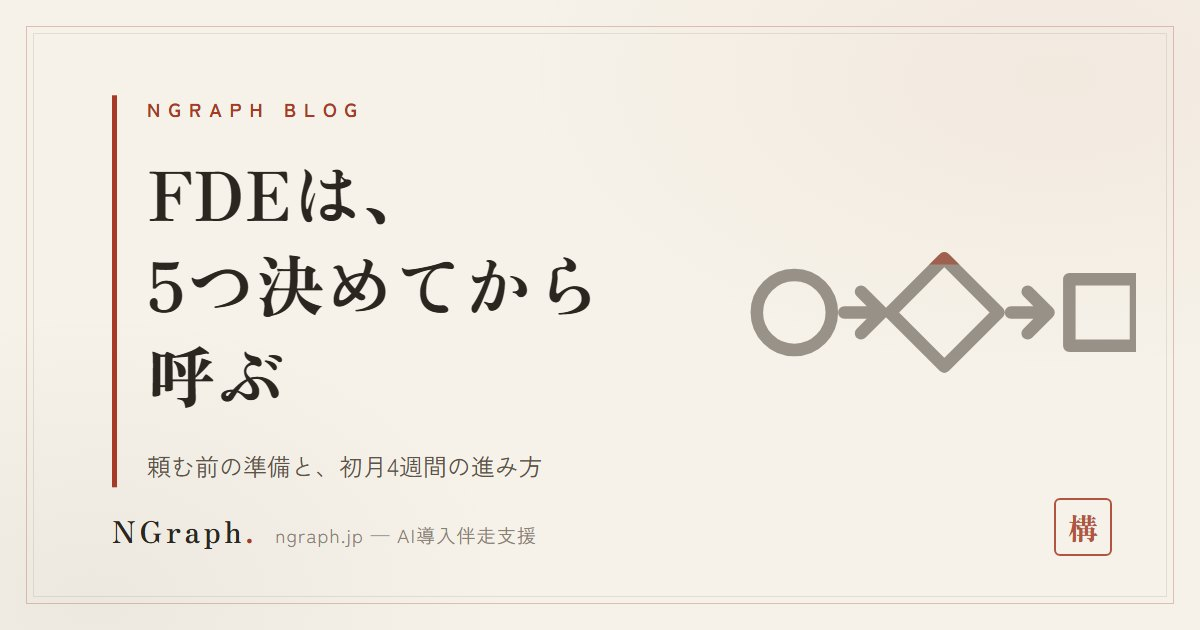
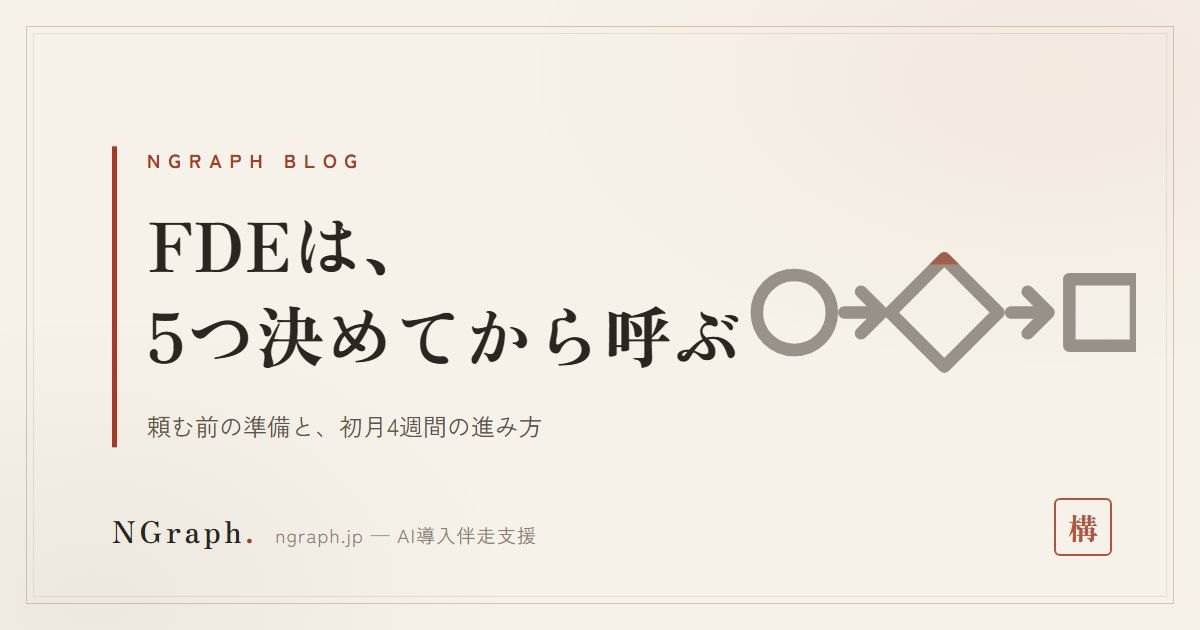
blog: 朝A型の本文を推敲＋8/22ガイドの表紙を作り直し
- 20260826-ai-nine-rules: リードを日付起点からAIの癖の提示に変更／
  BigQuery・MCPの定義文の連打を地の文に開く／「ました」率を下げ語尾を分散／
  一次情報にあって落ちていた事実を追加（列が6週間で3回並べ替え・登録2倍・
  BDR版が2日）／「この記事でいちばん持ち帰ってほしい」など書き手の言葉を削除／
  短信の見出しと1文目の重複を解消
- ja-article-craft / natural-japanese で推敲。antithesis反復3→1、
  ました率 16/68→17/71（23%・閾値30%内）、style_lint・ai_tell・paren・readability 全通過
- 20260822-fde-irai-mae-ni-kimeru.jpg: 表紙が3行に割れていたので {nb} で
  2行に修正（重なり検査通過）。文言の記録は前commitで入っていた分の画像側

Changed region(s): [[0.1233, 0.2413, 0.6167, 0.6937], [0.0925, 0.7238, 0.4625, 0.754], [0.0925, 0.1508, 0.3083, 0.2413]]

diff --git a/blog/k-multilingual-density.html b/blog/k-multilingual-density.html
@@ -1,0 +1,197 @@
+<!DOCTYPE html>
+<html lang="ja">
+<head>
+<meta charset="UTF-8">
+<meta name="viewport" content="width=device-width,initial-scale=1.0">
+<script async src="https://www.googletagmanager.com/gtag/js?id=G-L96HMXRK1D"></script>
+<script>
+  window.dataLayer = window.dataLayer || [];
+  function gtag(){dataLayer.push(arguments);}
+  gtag('js', new Date());
+  gtag('config', 'G-L96HMXRK1D');
+</script>
+<title>飲食店の英語ページは、日本語の5倍書く——多言語サイトを「情報密度」から設計する | NGraphブログ</title>
+<meta name="description" content="飲食店の多言語サイトを自社実測したところ、英語ページは日本語ページの約5倍の分量でした。訳語辞書・書いていない情報の洗い出し・書けない情報の線引き・更新の配線という、情報密度から設計する4つの手順を公開します。">
+<meta property="og:title" content="飲食店の英語ページは、日本語の5倍書く——多言語サイトを「情報密度」から設計する | NGraphブログ">
+<meta property="og:description" content="飲食店の多言語サイトを自社実測したところ、英語ページは日本語ページの約5倍の分量でした。訳語辞書・書いていない情報の洗い出し・書けない情報の線引き・更新の配線という、情報密度から設計する4つの手順を公開します。">
+<meta property="og:type" content="article">
+<meta property="og:url" content="https://ngraph.jp/blog/k-multilingual-density">
+<meta property="og:site_name" content="株式会社NGraph">
+<meta property="og:locale" content="ja_JP">
+<meta property="og:image" content="https://ngraph.jp/assets/blog/k-multilingual-density.jpg">
+<meta property="og:image:width" content="1200">
+<meta property="og:image:height" content="630">
+<meta name="twitter:card" content="summary_large_image">
+<link rel="canonical" href="https://ngraph.jp/blog/k-multilingual-density">
+<link rel="icon" href="/assets/favicon.svg" type="image/svg+xml">
+<link rel="preconnect" href="https://fonts.googleapis.com">
+<link rel="preconnect" href="https://fonts.gstatic.com" crossorigin>
+<link href="https://fonts.googleapis.com/css2?family=Zen+Old+Mincho:wght@400;600;700;900&family=Zen+Kaku+Gothic+New:wght@400;500;700&family=Noto+Sans+JP:wght@400;500;700&display=swap" rel="stylesheet">
+<link rel="stylesheet" href="/css/ngraph-zen.css?v=9">
+<style>.a-faq details{border:1px solid var(--border);border-radius:3px;background:var(--bg-card);margin-bottom:10px;padding:0 18px}.a-faq summary{font-family:var(--serif);font-size:.92rem;font-weight:700;line-height:1.7;padding:14px 0;cursor:pointer;list-style:none;position:relative;padding-right:26px}.a-faq summary::after{content:"＋";position:absolute;right:2px;top:50%;transform:translateY(-50%);color:var(--accent)}.a-faq details[open] summary::after{content:"−"}.a-faq details p{font-size:.86rem;color:var(--text-2);line-height:2;padding:0 0 16px}.a-note{background:rgba(166,58,36,.05);border-left:2.5px solid var(--accent);padding:16px 20px;border-radius:0 3px 3px 0;font-size:.88rem;color:var(--text-2);line-height:2.1;margin:26px 0}.a-note strong{color:var(--text)}.a-table-wrap{overflow-x:auto;margin:18px 0}.a-table{width:100%;border-collapse:collapse;font-size:.84rem}.a-table th,.a-table td{border:1px solid var(--border);padding:9px 12px;text-align:left;line-height:1.8;color:var(--text-2)}.a-table th{background:rgba(166,58,36,.05);color:var(--text);font-weight:700;white-space:nowrap}.a-eyecatch{width:100%;height:auto;display:block;border:1px solid var(--border);border-radius:4px;margin:24px 0 8px}.a-fig-wrap{background:var(--bg-card);border:1px solid var(--border);border-radius:4px;padding:22px 18px 14px;margin:26px 0;overflow-x:auto}.a-fig-title{font-family:var(--serif);font-size:.95rem;font-weight:700;text-align:center;margin-bottom:10px;color:var(--text)}.a-fig-cap{font-size:.8rem;color:var(--text-3);line-height:1.95;margin-top:10px}.a-src{border-top:1px solid var(--border);margin-top:34px;padding-top:16px;font-size:.78rem;color:var(--text-3);line-height:2}.a-src a{color:var(--text-3);text-decoration:underline}.a-toc{background:var(--bg-card);border:1px solid var(--border);border-radius:3px;padding:16px 20px;margin:20px 0;font-size:.86rem;color:var(--text-2);line-height:2}.a-toc strong{color:var(--text)}</style>
+<script type="application/ld+json">
+{
+  "@context": "https://schema.org",
+  "@type": "Article",
+  "headline": "飲食店の英語ページは、日本語の5倍書く——多言語サイトを「情報密度」から設計する",
+  "image": "https://ngraph.jp/assets/blog/k-multilingual-density.jpg",
+  "description": "飲食店の多言語サイトを自社実測したところ、英語ページは日本語ページの約5倍の分量でした。訳語辞書・書いていない情報の洗い出し・書けない情報の線引き・更新の配線という、情報密度から設計する4つの手順を公開します。",
+  "datePublished": "2026-08-26",
+  "dateModified": "2026-08-26",
+  "inLanguage": "ja",
+  "mainEntityOfPage": "https://ngraph.jp/blog/k-multilingual-density",
+  "author": { "@type": "Person", "name": "髙橋 真吾", "jobTitle": "代表取締役", "url": "https://ngraph.jp/company#team", "worksFor": { "@type": "Organization", "name": "株式会社NGraph", "url": "https://ngraph.jp/" } },
+  "publisher": { "@type": "Organization", "name": "株式会社NGraph", "logo": { "@type": "ImageObject", "url": "https://ngraph.jp/assets/ngraph-logo-circle.png" } }
+}
+</script>
+</head>
+<body>
+
+<div class="bg-fx" aria-hidden="true"></div>
+
+<header class="header scrolled">
+  <div class="header-inner">
+    <a href="/" class="brand"><img src="/assets/ngraph-logo-circle.png" alt=""><span>NGraph</span></a>
+    <div style="display:flex;align-items:center;gap:18px">
+      <a href="/blog/" style="font-size:.82rem;color:var(--text-2)">ブログ一覧</a>
+      <a href="/entry" class="nav-cta" style="padding:9px 20px;border-radius:3px;background:var(--accent);color:#fdfaf4;font-weight:700;font-size:.8rem">無料相談</a>
+    </div>
+  </div>
+</header>
+
+<article class="article-wrap">
+  <div class="a-label">N-KNOWLEDGE</div>
+  <h1>飲食店の英語ページは、日本語の5倍書く——多言語サイトを「情報密度」から設計する</h1>
+  <span class="a-date">2026.08.26 ナレッジ ｜ 株式会社NGraph</span>
+  <img class="a-eyecatch" src="/assets/blog/k-multilingual-density.jpg" alt="飲食店の英語ページは、日本語の5倍書く——多言語サイトを「情報密度」から設計する">
+<p>飲食店の英語ページを作るとき、多くの担当者は日本語ページをそのまま訳せば足りると考えます。ところが公開したあとも、外国人客からの質問はほとんど減りません。原因は訳の質ではなく、書いてある情報の量にあります。当社が実際に制作した飲食店サイトで日本語ページと英語ページの本文文字数を測ったところ、英語ページは日本語ページのおよそ5倍の分量になっていました。この記事で持ち帰ってほしいのは5倍という数字そのものではなく、なぜそれだけの分量を書く必要があるのかという設計の考え方です。</p>
+<div class="a-toc"><strong>この記事でわかること</strong><br>
+・訳しただけの英語ページが、なぜ質問を減らさないのか<br>
+・自社実測でわかった「英語ページは日本語の約5倍」の中身と、その数字の限界<br>
+・訳語を店ごとに決め直さないための、辞書の持ち方<br>
+・多言語ページに書き足すべき情報の洗い出し方と、書いてはいけない情報の線引き<br>
+・今日から始められる4段階の実践パス</div>
+
+<h2>訳しただけの英語ページは、なぜ質問を減らさないのか</h2>
+<p>日本語のメニューページは、日本人の読者がすでに持っている前提知識に支えられて成立しています。「甘鯛の一夜干し」と書けば、読者は甘鯛がどんな魚かを知っていて、一夜干しという調理法もおおよそ想像できます。「お通し」と書いても、注文していない小皿が席料に近い形で出てくることは、店側があらためて説明するまでもない共通認識です。「二階席」と書けば、それが座敷なのか個室なのか、読者は自分の経験から補って読みます。</p>
+<p>英語ページをこの日本語ページから1対1で訳すと、文章として正しい英訳ができあがります。しかし、日本語ページがそもそも書いていなかった前提知識まで、そのまま欠落したページになります。甘鯛が何の魚かも、一夜干しがどんな調理かも、お通しが何かも、二階席が何かも、英語ページには何も書かれていません。読み手はその言語の実力がどれだけ高くても、書かれていない情報を推測で埋めることはできません。</p>
+<p>生ものかどうか、辛さの度合い、加熱しているかどうかも同じ構造を持っています。「刺身の盛り合わせ」という日本語だけで、日本人読者は生の魚介であることも、醤油とわさびで食べることも承知済みです。英語ページにこの一文が無いまま「Assorted sashimi」とだけ書くと、生ものだと知らずに注文する読者が出てきます。</p>
+<p>「訳文は正しいのに伝わらない」という現象の正体は、訳の質ではなく情報の量です。多言語ページの担当者がまず疑うべき対象は、翻訳の精度ではありません。日本語ページには最初から書いていなかった情報が、どれだけあるかという点です。</p>
+
+<h2>実測——同じ店の英語ページは、日本語の約5倍長い</h2>
+<p>当社が実際に制作した飲食店サイト2店舗で、日本語ページと英語ページの本文文字数を数えました。数えたのはスクリプトやスタイル、コメントを除いた本文のテキストだけで、公開中のページを取得して2026年8月26日に測った実測値です。</p>
+<p>1店舗目は、トップページとメニューページを合わせた日本語の本文が7,591字だったのに対し、同じ構成の英語ページは38,510字で、日本語の約5.1倍でした。もう1店舗も、日本語7,024字に対して英語34,170字で、約4.9倍という近い比率になっています。2店舗とも、英語ページはおよそ日本語ページの約5倍の分量でした。</p>
+<div class="a-fig-wrap">
+<p class="a-fig-title">同じ店の英語ページは、日本語の約5倍の分量になる</p>
+<svg viewBox="0 0 1200 460" width="100%" style="min-width:640px" role="img" aria-label="同じ店の英語ページは、日本語の約5倍の分量になる"><rect x="220" y="268" width="220" height="41" rx="3" fill="#a63a24"/><text x="330" y="250" font-family="'Zen Kaku Gothic New',sans-serif" font-size="46" fill="#a63a24" font-weight="900" text-anchor="middle">7591字</text><text x="330" y="343" font-family="'Zen Kaku Gothic New',sans-serif" font-size="21" fill="#2b2620" font-weight="700" text-anchor="middle">日本語ページ</text><rect x="700" y="99" width="220" height="210" rx="3" fill="#cfc5b4"/><text x="810" y="81" font-family="'Zen Kaku Gothic New',sans-serif" font-size="46" fill="#5c544a" font-weight="900" text-anchor="middle">38510字</text><text x="810" y="343" font-family="'Zen Kaku Gothic New',sans-serif" font-size="21" fill="#2b2620" font-weight="700" text-anchor="middle">英語ページ</text><line x1="570" y1="50" x2="570" y2="358" stroke="#8a8172" stroke-width="1" stroke-dasharray="4 4"/><text x="600.0" y="402.0" font-family="'Zen Old Mincho',serif" font-size="24" fill="#2b2620" font-weight="900" text-anchor="middle">訳した分ではなく、日本語ページに書いていなかった分が増えている</text><text x="8" y="444" font-family="'Zen Kaku Gothic New',sans-serif" font-size="13" fill="#8a8172" font-weight="400" text-anchor="start">出所：当社制作の飲食店サイト1店舗・本文テキスト文字数の実測（2026-08-26）</text></svg>
+<p class="a-fig-cap">訳した分ではなく、日本語ページに書いていなかった分が増えている</p>
+</div>
+<p>ただし、この数字をそのまま一般値として受け取らないでください。日本語側のメニューは一部を画像で載せていて、テキストとして数えると日本語側の分量が実際より小さく出ます。もっとも、画像の中の文字は翻訳にも機械の読み取りにも通らないので、多言語ページを作る側は結局その内容を書き起こすことになります。この偏り自体が、多言語ページの設計で向き合うべき論点です。加えて、いま分かっているのは2店舗の実測であって、業種や店の作りが違えば比率は変わります。一般的な最適比率として使える数字ではありません。</p>
+<p>読者が持ち帰れるのは、5倍という数値そのものではなく、線の引き方です。自社の日本語ページと英語ページを開き、本文の文字数をそれぞれ数えて比べてください。ほとんど同じ字数なら、それは「訳しただけ」の状態にある合図です。</p>
+
+<h2>設計①——訳語は店ごとに決めず、1つの辞書で決める</h2>
+<p>食材や料理の訳語を、ページを作るたびに考えていると、表記は必ずブレるものです。例えば同じ食材でも、あるページでは直訳した語を、別のページでは読みをそのまま当てた語を使ってしまうというように、作成のタイミングや担当者によって訳語が変わります。しかも一度調べた語を、次のページでまた一から調べ直すことになり、確認の手間も二重にかかります。</p>
+<p>当社はこの状態を避けるために、食材の訳語をまとめた辞書を1つ持っています。現在は496語が登録済みです。運用の原則は、生成のときに必ずこの辞書を先に引き、載っている語は強制的にその訳を使うこと。載っていない語だけを、権威ある出典で一度検証してから、出典つきで登録すること。そして一度確定した語は二度と調べ直さず、全店のページへ反映することです。店ごとに作って、あとから調べて合っていたかを確かめる事後監査は、この運用に切り替えてから廃止しました。</p>
+<p>読者が持ち帰れるのは、辞書の中身ではなく方針そのものです。一般的な英語名がすでにある食材は、その英語名をそのまま使います。日本独自の食材やブランド名、加工品はローマ字にして、短い補足を添えます。読みをそのまま外国語表記にする音写には逃げないでください。読み手の言語に、すでに通用する呼び名がある食材にまで音写を当てると、読み手にとっては「知らない単語」が1つ増えるだけです。</p>
+<p>すでに広く知られている料理名や食材名まで、独自に訳し直す必要はありません。寿司、天ぷら、味噌、豆腐といった語は、英語の読者にもすでに通じる語として定着しています。訳し直すよりも、その定着した語をそのまま使うほうが読者には親切です。辞書が担うのは、すでに通じる語と、通じないので補足が要る語を見分ける仕事だと考えてください。</p>
+<p>専用の道具は要りません。表計算1枚で足ります。列は、語・英語訳・中国語訳・韓国語訳・出典・確定日の6列で足ります。要件はツールの有無ではなく、正本が1つであることです。店ごとに辞書を分けず、全ページが同じ1枚を引く状態にしてください。</p>
+
+<h2>設計②——訳す前に、日本語ページに「無い」情報を数える</h2>
+<p>多言語ページは、日本語ページの翻訳成果物ではありません。別の前提知識を持つ読者に向けて書く、新しいページです。訳す前にまずやるべきことは、日本語ページに書いていない情報を洗い出すことです。</p>
+<p>洗い出す観点は店によって多少変わりますが、次の項目は多くの飲食店で共通して抜けています。</p>
+<div class="a-table-wrap"><table class="a-table">
+<tr><th>観点</th><th>抜けやすい理由</th></tr>
+<tr><td>料理が何の食材か</td><td>日本人読者には自明で説明が省かれている</td></tr>
+<tr><td>どう食べるか</td><td>作法（つけて食べる・崩して食べる等）が文化前提</td></tr>
+<tr><td>辛さ・生もの・アレルゲン</td><td>常連向けの表現に留まりやすい</td></tr>
+<tr><td>席の種類と人数</td><td>席名だけで形状が伝わると想定されている</td></tr>
+<tr><td>予約の要否と方法</td><td>電話前提で、方法自体が書かれていない</td></tr>
+<tr><td>支払い手段</td><td>店頭で分かることとして省略されている</td></tr>
+<tr><td>入店ルール（お通し・チャージ・時間制）</td><td>地域の慣習として説明が省かれている</td></tr>
+<tr><td>最寄り駅からの行き方</td><td>地図があれば足りると想定されている</td></tr>
+<tr><td>営業時間の例外</td><td>常連への口頭連絡で済ませている</td></tr>
+</table></div>
+<p>洗い出す方法は、難しく考える必要はありません。実際に来店した外国人客からその場で聞かれた質問を1件ずつ書き留めておくだけでも、表の空欄は埋まっていきます。聞かれた回数の多い項目から書き足せば、優先順位も自然に決まります。</p>
+<p>この表は、必ず全項目を書けという指示ではありません。書いてよいのは、確認できたものだけです。確認できていない項目は空欄のまま、次の章で扱う考え方に従ってください。</p>
+
+<h2>設計③——書けないことは書かない。推測で埋めた1行が、現地で事故になる</h2>
+<p>ベジタリアン対応、アレルギー対応、Wi-Fi、バリアフリー、クレジットカードの可否。これらは外国語の読者が、来店するかどうかをその場で決める項目です。国内の読者であれば店に着いてから店員に聞き直すこともできますが、海外から来る読者の多くは、来店前にこれらを確認して予定を組みます。</p>
+<p>確認していないのに書いてしまうと、実際に来店した客が困り、店側が謝ることになります。多言語サイトの設備欄で起きるこの事故は、断定してはいけない項目を推測で埋めてしまうという、書類作成の場面でも繰り返し起きている失敗と同じ構造です。空欄にするか、確認できるまでその行ごと落としてください。</p>
+
+<h2>設計④——更新の入口を1つにする。さもないと半年で日本語だけ新しくなる</h2>
+<p>多言語ページが半年後に古くなる原因は、翻訳の質ではありません。更新の配線です。メニューを改定したとき、その変更が日本語ページにしか届かない仕組みになっていると、英語・中国語・韓国語のページは改定前のまま残り続けます。</p>
+<p>設計として立てるべきは、1回の改定作業が全言語に届く形にしておくことです。読者が明日から始められる最小の実践は、更新手順書に「日本語を直したら、同じ作業の中で各言語も直す」という1行を入れることです。日本語だけ直して次の作業に移る、という状態を残さないでください。</p>
+<p>入口を分けたまま運用すると、「今回は英語だけ直した」「中国語は来月まとめて直す」という状態が改定のたびに積み重なり、半年後には言語ごとに違う日付のメニューが並ぶことになります。入口を1つにするというのは、新しい仕組みを導入することではありません。改定作業の最後に、全言語の画面を開いて見比べる手順を1つ加えるだけでも、入口は1つに近づきます。</p>
+
+<h2>公開前に、人ではなく機械が見る項目</h2>
+<p>目視での確認は、必ずどこかが抜けます。公開する前に、機械的に確かめられる項目を先に決めておいてください。</p>
+<div class="a-table-wrap"><table class="a-table">
+<tr><th>確認項目</th></tr>
+<tr><td>価格・営業時間・電話番号が日本語ページと全件一致するか</td></tr>
+<tr><td>電話番号が国際形式（+81）になっているか</td></tr>
+<tr><td>地図の埋め込みが正しい店舗を指しているか</td></tr>
+<tr><td>言語切替のリンクが全ページ・全言語で切れていないか</td></tr>
+<tr><td>FAQの数と内容が言語間でそろっているか</td></tr>
+<tr><td>確認していない設備の記述が混ざっていないか</td></tr>
+</table></div>
+<p>これらは専用のツールがなくても、公開前にひとつずつ手で当たれば確認できる項目です。大切なのは項目を思いつくことではなく、公開の直前に必ず通す手順として決めておくことです。</p>
+
+<h2>最小実践パス——今日から4段階</h2>
+<p>多言語ページを一から作り直す必要はありません。今日から始められる実践は、次の4段階に分かれます。</p>
+<div class="a-fig-wrap">
+<p class="a-fig-title">多言語ページの作り方（4段階）</p>
+<svg viewBox="0 0 1200 588" width="100%" style="min-width:640px" role="img" aria-label="多言語ページの作り方（4段階）"><line x1="190" y1="130" x2="190" y2="182" stroke="#8a8172" stroke-width="1.5"/><circle cx="190" cy="100" r="27" fill="none" stroke="#a63a24" stroke-width="2.5"/><text x="190" y="112" font-family="'Zen Old Mincho',serif" font-size="30" fill="#a63a24" font-weight="900" text-anchor="middle">1</text><text x="246" y="111" font-family="'Zen Kaku Gothic New',sans-serif" font-size="27" fill="#2b2620" font-weight="700" text-anchor="start">場所・電話・営業時間を正確に</text><line x1="190" y1="242" x2="190" y2="294" stroke="#8a8172" stroke-width="1.5"/><circle cx="190" cy="212" r="27" fill="none" stroke="#cfc5b4" stroke-width="2.5"/><text x="190" y="224" font-family="'Zen Old Mincho',serif" font-size="30" fill="#cfc5b4" font-weight="900" text-anchor="middle">2</text><text x="246" y="223" font-family="'Zen Kaku Gothic New',sans-serif" font-size="27" fill="#2b2620" font-weight="700" text-anchor="start">メニューを辞書つきで書き起こす</text><line x1="190" y1="354" x2="190" y2="406" stroke="#8a8172" stroke-width="1.5"/><circle cx="190" cy="324" r="27" fill="none" stroke="#cfc5b4" stroke-width="2.5"/><text x="190" y="336" font-family="'Zen Old Mincho',serif" font-size="30" fill="#cfc5b4" font-weight="900" text-anchor="middle">3</text><text x="246" y="335" font-family="'Zen Kaku Gothic New',sans-serif" font-size="27" fill="#2b2620" font-weight="700" text-anchor="start">前提知識を書き足す</text><circle cx="190" cy="436" r="27" fill="none" stroke="#cfc5b4" stroke-width="2.5"/><text x="190" y="448" font-family="'Zen Old Mincho',serif" font-size="30" fill="#cfc5b4" font-weight="900" text-anchor="middle">4</text><text x="246" y="447" font-family="'Zen Kaku Gothic New',sans-serif" font-size="27" fill="#2b2620" font-weight="700" text-anchor="start">更新の配線と公開前検査</text><text x="600.0" y="530.0" font-family="'Zen Old Mincho',serif" font-size="24" fill="#2b2620" font-weight="900" text-anchor="middle">第1段階が間違っていると、以降の段階は意味を持たない</text></svg>
+<p class="a-fig-cap">第1段階が間違っていると、以降の段階は意味を持たない</p>
+</div>
+<p>第1段階は、場所・電話番号・営業時間・地図を正確にすることです。ここが間違っていると、他の段階をどれだけ丁寧に作っても意味を持ちません。第2段階では、メニューを辞書つきで書き起こして画像の中に隠れている文字を外へ出し、第3段階で食べ方や席、予約、支払いといった前提知識を書き足します。第4段階で、更新の配線と公開前の検査を整えます。この順番を逆にしないでください。</p>
+
+<h2>まとめ</h2>
+<ul>
+<li>訳文が正しいのに伝わらないなら、疑うべきは訳の質ではなく情報の量</li>
+<li>自社実測では、英語ページは日本語ページの約5倍の分量だった。ただし2店舗の実測であり、一般的な最適比率ではない</li>
+<li>訳語は店ごとに決めず、1つの辞書に持たせる。一般的な英語名がある食材はそのまま使い、日本独自の食材はローマ字＋補足にする</li>
+<li>多言語ページは翻訳の成果物ではなく、新しいページ。書いていない情報を先に洗い出す</li>
+<li>確認していない設備の情報は書かない。空欄にするか、行ごと落とす</li>
+<li>更新は1回の作業が全言語に届く配線にしておく</li>
+<li>公開前の一致確認は目視ではなく、機械的に確かめられる項目として決めておく</li>
+</ul>
+
+<div class="a-cta">
+  <p style="font-family:var(--serif);font-size:1.02rem;font-weight:700;color:var(--text)">NGraphでは、飲食店HPの多言語対応制作を承っております。</p>
+  <p>食材と料理の訳語を1つの辞書に持たせ、外国語で読む人が注文までたどり着けるだけの情報を書き足した多言語サイトを構築します。ご依頼は随時募集していますので、お気軽にご相談ください。</p>
+  <a href="/entry" class="btn btn-primary">無料で相談する</a>
+  <p style="margin-top:14px;font-size:.78rem">XのDMでも受け付けています：<a href="https://x.com/japan19840824" target="_blank" rel="noopener" style="color:var(--accent);border-bottom:1px solid var(--accent)">@japan19840824</a></p>
+</div>
+
+<div class="a-src">補足：<br>
+・本文の文字数はいずれも2026年8月時点で当社が制作した飲食店サイト2店舗の実測です。他社に当てはまる一般値ではありません<br>
+・訳語辞書の登録数（496語）は本文執筆時点の実数です</div>
+
+  <a href="/blog/" class="a-back">← ブログ一覧に戻る</a>
+</article>
+
+<div class="float-cta" id="floatCta"><a href="/entry">無料で相談する →</a></div>
+
+<footer class="footer">
+  <div class="footer-inner">
+    <div class="footer-col">
+      <div class="footer-brand"><img src="/assets/ngraph-logo-circle.png" alt=""><span>NGraph</span></div>
+      <p>エンジニアが現場に入り、AIが業務で使われるまで伴走する会社です。</p>
+    </div>
+    <div class="footer-links">
+      <a href="/fde/">FDE型AI導入支援</a>
+      <a href="/blog/">ブログ</a>
+      <a href="/company">会社概要</a>
+      <a href="/entry">お問い合わせ</a>
+      <a href="/privacy">プライバシーポリシー</a>
+    </div>
+  </div>
+  <div class="footer-copy">&copy; 2025 NGraph Inc.</div>
+</footer>
+<script>
+(function(){var f=document.getElementById('floatCta');if(!f)return;
+function t(){if(window.scrollY>420)f.classList.add('show');else f.classList.remove('show');}
+window.addEventListener('scroll',t,{passive:true});t();})();
+</script>
+</body>
+</html>

diff --git a/blog/20260826-ai-nine-rules.html b/blog/20260826-ai-nine-rules.html
@@ -65,30 +65,33 @@
   <span class="a-date">2026.08.26 朝 ｜ 株式会社NGraph</span>
   <img class="a-eyecatch" src="/assets/blog/20260826-ai-nine-rules.jpg" alt="Anthropicの社内でも、AIは実在しないURLを作った——仕組みは1時間、配れるまでに9つのルール">
 
-<p>2026年8月24日、Anthropicが<a href="https://claude.com/blog/how-an-anthropic-field-marketer-uses-claude-code-to-send-weekly-personalized-updates-to-every-sales-rep" target="_blank" rel="noopener">自社ブログ</a>で、マーケティング担当者が営業チーム向けの週次レポート作成にClaude Codeを使った実例を公開しました。仕組みそのものは、社内ハッカソンで割り当てられた1時間で組み上がっています。結論：中小企業がAI活用の手本にすべきなのは「1時間で作れた」ことではなく、それを毎週配れる状態に育てるまでに要った9つのルールのほうです。</p>
+<p>Anthropicのマーケティング担当者が、営業向けの週次ダイジェストをClaude Codeに作らせた話を、8月24日に<a href="https://claude.com/blog/how-an-anthropic-field-marketer-uses-claude-code-to-send-weekly-personalized-updates-to-every-sales-rep" target="_blank" rel="noopener">自社ブログ</a>で公開しました。仕組みは社内ハッカソンの1時間で動いています。ところが最初の週、元データにイベントのURLが無い行で、Claudeはもっともらしいアドレスを自分で組み立てました。毎週配れる状態になったのは、そこから9つのルールを足しおえたあとです。中小企業が持ち帰るべきなのは、1時間のほうではなく9つのほうだと思います。</p>
 
 <h2>何が起きたか</h2>
-<p>Anthropicのマーケティングチームでフィールドマーケターを務めるAdam Ward氏が、この実例を明かしました。以前は日曜の夜に社内各所から情報を集めてスライドを作り、月曜朝15分の朝会で営業チームに共有し、Slackにデッキを貼っていました。支援するチームが増えるにつれ、この手作業が追いつかなくなったといいます。きっかけはマーケティングのハッカソンでした。Ward氏はこの問題に1時間を充てました。BigQueryは、HubSpot・Clay・Salesforceのデータが集まる、マーケティングチームの正本となるデータ基盤です。MCPは、AIを社内のデータや道具につなぐための共通の接続口です。Ward氏はMCPでBigQueryとClaude Codeをつなぎ、CRMから営業担当者の担当領域を、Slackから担当先の動きを取り出して突き合わせ、営業1人ずつ別々の週次ダイジェストを作る仕組みを組みました。毎週月曜の朝、Slackのダイレクトメッセージで届きます。</p>
+<p>書いたのはAdam Ward氏、Anthropicのマーケティングチームでフィールドマーケターを務める人です。以前は日曜の夜に社内各所の情報を集めてスライドにし、月曜朝15分の朝会で営業に共有していました。支援するチームが増えるにつれて、この段取りは追いつかなくなります。しかも週を追うごとに、チームごとの見どころを選り分ける時間が削られていきました。転機はマーケティングのハッカソンです。Ward氏はこの問題に1時間を充てました。</p>
+<p>つないだ先はBigQueryです。HubSpotやClay、Salesforceのデータが集まる、マーケティングチームの正本にあたるデータ基盤で、そこへMCPという接続口を通してClaude Codeをつなぎました。MCPは、AIを社内のデータや道具につなぐための共通の窓口だと考えてください。あとはCRMから営業担当者の担当領域を、Slackから担当先の動きを引き、両方を突き合わせて1人ずつ別の内容を書かせます。毎週月曜の朝、Slackのダイレクトメッセージで届く仕組みです。</p>
 
 <h2>なぜ重要か</h2>
-<p>仕組みが動き出した直後に、最初の事故が起きました。元データのシートにイベントのURLが無いとき、Claudeは「もっともらしい」アドレスを作り、そのリンクはどこにも通じませんでした。Ward氏はすぐにプロンプトへ絶対ルールとして「URLを発明するな」と書き加えました。いまはリンクの文字列が、アドレスの記載されたシートと1文字ずつ一致するときだけ表示されます。後の版では、リンクの無いイベントをダイジェストから丸ごと落とすようにもなりました。登録できないイベントを載せても、雑音にしかならないと気づいたためです。</p>
-<p>1週目が終わるころには、プロンプトに9つの内容ルールが載っていました。知識労働者向けのワークショップにエンジニアリング担当のVPが推薦されたという指摘を受け、担当者の役職とイベントの対象を突き合わせる仕組みを足しました。小売の担当先を金融の会食の招待から外す、業種によるゲートも加わっています。担当先がまだ無い新人には、空のメッセージの代わりに短い歓迎文を送るようにしました。9つはすべて、売り手かマネージャーからのフィードバック1件ずつにたどれます。</p>
-<p>ここに、この記事でいちばん持ち帰ってほしい発見があります。AIで何かを作れること自体は、もう差になりません。差がつくのは、現場の指摘をルールに落として運用に載せる往復のほうです。エンジニアが現場に入り、この往復を回し続ける役割は<a href="/blog/what-is-fde">FDE</a>と呼ばれます。</p>
-<div class="a-note"><strong>NGraphの視点：</strong>同じ癖に、私たちも別の場所で当たったことがあります。2026年8月18日、当ブログの朝の記事で、記事末の「参考（一次情報）」に載せた出典の題名が、実在しないものになって公開されました。元のページを開かずに、URLの一部からそれらしい題名が組み立てられていたのです。出典の題名は書き手が最も自然に作れてしまう場所で、通読して目で確かめるだけでは見つかりませんでした。いまは公開前に、参考枠の外部リンクを実際に開いてページの題名と突き合わせる検査を通しています。AIは、元データが欠けている場所を、聞かれるまで黙って埋めます。起きた場所が違うだけで、Anthropicの事例と同じ癖です。</div>
+<p>最初の事故は、動き出した直後に出ました。元データのシートにイベントのURLが無いとき、Claudeは「もっともらしい」アドレスを作ります。押してもどこにも通じないリンクでした。Ward氏はプロンプトに絶対のルールを1行足します。URLを発明するな。いまはアドレスがシートの記載と1文字ずつ一致するときだけ、リンクが出るようになっています。後の版では、リンクの無いイベントごと落とす形に変わりました。登録できない催しを載せても雑音にしかならない、という判断です。</p>
+<p>1週目が終わるころ、プロンプトには9つの内容ルールが載っていました。知識労働者向けのワークショップに、エンジニアリング担当のVPが推薦されている。その指摘を受けて、担当者の役職とイベントの想定参加者を突き合わせ、ズレたら何も言わずに落とす条件が入ります。業種のゲートも足され、小売の担当先は金融の会食の招待から外れました。担当先がまだ無い新人には、白紙の代わりに短い歓迎文が届きます。9つはどれも、売り手かマネージャーからの指摘1件ずつにたどれるものでした。誰かが手戻りを一度経験するたびに、条件が1つ増えていったわけです。</p>
+<p>ずれるのはAIの側だけではありません。フィールドイベントのシートは6週間で3回、列の並びが変わっています。そこでWard氏は指示の書き方を変えました。「C列を見ろ」と固定するのをやめ、「イベントURLの列を見ろ」と書き、毎回の実行の頭でヘッダー行を読ませて対応を確かめさせます。欠けたところを埋める癖は、指示と現実がずれた瞬間に出てくるからです。</p>
+<p>積み上げた効き目は数字にも出ました。あるエグゼクティブ・ディナーは、登録が1週間で2倍になっています。正しい担当者が月曜の朝に正しい催しを目にしたからだ、というのが本人の説明です。新規開拓担当の版は、顧客とのつながり方がCRM上で違うだけなので、1つのフィールドを変えて複製し、2日で動きました。9つのルールがそのまま引き継がれています。</p>
+<p>作れること自体は、もう差になりません。差がつくのは、現場から返ってきた指摘をルールに変えて運用に載せ、また指摘をもらうという往復のほうです。この往復を、外から入って一緒に回す役割を<a href="/blog/what-is-fde">FDE</a>と呼びます。地味な仕事です。ただ、Anthropicの例で最初の1週間に積み上がった9つは、まるごとこの往復の分でした。</p>
+<div class="a-note"><strong>NGraphの視点：</strong>同じ癖に、私たちも別の場所で当たりました。2026年8月18日、このブログの朝の記事で、記事末の「参考（一次情報）」に載せた出典の題名が実在しないものになって公開されています。元のページを開かずに、URLの一部からそれらしい題名が組み立てられていました。出典の題名は書き手がいちばん自然に作れてしまう場所で、通読して目で追うだけでは見つかりません。いまは公開の前に、参考枠の外部リンクを実際に開き、ページの題名と1本ずつ突き合わせています。AIは、元データが欠けている場所を、聞かれるまで黙って埋める。起きた場所が違うだけで、Anthropicの事例とまったく同じ癖でした。</div>
 
 <h2>中小企業は何をすべきか</h2>
 <ul>
-<li><strong>いま手作業でやっている、いちばん時間を食う繰り返し作業から始める。</strong>良し悪しを自分で判断できる作業を選べば、AIの出力ミスに自分で気づけます。他人に配る前に、まず自分宛てに何度か送って誤りを探す期間を置きます。</li>
-<li><strong>指示は平易な言葉で書き、直すたびに版として残す。</strong>Ward氏は共有ドキュメントから始め、編集する人が増えた段階で変更履歴の残る保管場所に移しました。何を直したかを1行でも書き残すと、次に同じ間違いを踏みません。</li>
-<li><strong>少人数の協力してくれる相手で試し、指摘の一つひとつを明示的なルールに畳み込む。</strong>Ward氏の9つのルールは、最初の10人からのフィードバックの積み重ねです。指摘を感想で終わらせず、プロンプトに書ける条件文に変えるところまでやります。</li>
+<li><strong>いま手でやっている、いちばん時間を食う繰り返し作業から選ぶ。</strong>自分で良し悪しを判断できる作業なら、AIが埋めた嘘にその場で気づけます。人に配るものなら、最初の何回かは自分宛てに送って誤りを拾う期間を置いてください。</li>
+<li><strong>指示は平易な言葉で書き、直すたびに版として残す。</strong>Ward氏は共有ドキュメントから始め、編集する人が増えた段階で変更履歴の残る場所へ移しています。何を直したかが1行あるだけで、同じ間違いを二度踏まずに済みます。</li>
+<li><strong>少人数で試し、指摘の一つひとつをルールに畳み込む。</strong>9つのルールは、最初の10人から返ってきた指摘の積み重ねでした。感想のまま置かず、プロンプトに書ける条件文へ変えるところまでが1回分の作業です。</li>
 </ul>
 <p>外部の伴走支援に依頼する場合は、<a href="/blog/20260822-fde-irai-mae-ni-kimeru">FDEに頼む前に決めておく5つのこと</a>を先に社内で固めておくと、最初のルール作りが早く進みます。</p>
 
 <h2>その他の注目ニュース（8月26日 朝時点）</h2>
 <ul>
-<li><strong>Apple、M6とM5 Ultraを発表（8月25日）</strong> — Appleは<a href="https://www.apple.com/jp/newsroom/2026/08/apple-introduces-m6-and-m5-ultra-for-a-big-leap-in-performance-and-ai-compute/" target="_blank" rel="noopener">M6とM5 Ultra</a>を発表しました。M5 Ultraは最大512GBのユニファイドメモリと1.2TB/sの帯域を備え、数千億のパラメータを持つ大規模なLLMを完全にデバイス上で実行できるとしています。社外にデータを出せないことを理由にAI導入を止めていた会社にとって、手元の機械で動かす選択肢が現実味を増しました。ただし手元で動かすとは、更新と運用を自社で持つということでもあります。</li>
-<li><strong>「責任あるAI導入には作業手順の設計が要る」（8月24日）</strong> — <a href="https://stackoverflow.blog/2026/08/24/responsible-ai-adoption-needs-developer-workflow-design" target="_blank" rel="noopener">Stack Overflowの記事</a>は、方針文書を出すだけでは行動は変わらず、それが会社の把握していないAI利用を生む最短の道になると論じています。使用禁止の通達より、承認したツールの使い勝手のほうが結果を決めるという指摘です。</li>
-<li><strong>デジタル化・AI導入補助金2026、5次締切は9月29日</strong> — <a href="https://it-shien.smrj.go.jp/schedule/" target="_blank" rel="noopener">事務局の事業スケジュール</a>によると、通常枠・インボイス枠・セキュリティ対策推進枠の5次締切は2026年9月29日17時です。事務局は締切後の受付は理由を問わず一切しないと明記しています。補助対象のITツールは事前登録された製品からしか選べないため、申請を決めた時点でベンダー選びが先に来ます。</li>
+<li><strong>手元でLLMを動かす選択肢が広がった（8月25日）</strong> — Appleが<a href="https://www.apple.com/jp/newsroom/2026/08/apple-introduces-m6-and-m5-ultra-for-a-big-leap-in-performance-and-ai-compute/" target="_blank" rel="noopener">M6とM5 Ultra</a>を発表しました。M5 Ultraは最大512GBのユニファイドメモリと1.2TB/sの帯域を持ち、数千億のパラメータを持つ大規模なLLMを完全にデバイス上で実行できるとしています。社外にデータを出せないことを理由にAI導入を止めてきた会社には、手元の機械という選択肢が現実味を増しました。ただし手元で動かすとは、更新と運用を自社で抱えるということでもあります。</li>
+<li><strong>方針文書だけではAIの持ち込みは止まらない（8月24日）</strong> — <a href="https://stackoverflow.blog/2026/08/24/responsible-ai-adoption-needs-developer-workflow-design" target="_blank" rel="noopener">Stack Overflowの記事</a>が、通達を出して行動が変わると考えることこそ、会社の把握していないAI利用を生む最短の道だと論じています。止めたいなら、承認した道具のほうを抜け道より使いやすくするしかない。現場がどの作業でよそのツールに手を伸ばすのかを、先に見ろという指摘です。</li>
+<li><strong>デジタル化・AI導入補助金2026、5次締切は9月29日</strong> — <a href="https://it-shien.smrj.go.jp/schedule/" target="_blank" rel="noopener">事務局の事業スケジュール</a>では、通常枠・インボイス枠・セキュリティ対策推進枠の5次締切が2026年9月29日17時と示されています。締切を過ぎた受付は理由を問わず一切しない、とも明記されています。補助の対象になるITツールは事前に登録された製品からしか選べないので、申請を決めた時点でベンダー選びが先に来ます。</li>
 </ul>
 
 <p style="margin:26px 0"><a href="/fde/" style="color:var(--accent);border-bottom:1px solid var(--accent)">AI導入の進め方を相談する（FDE型AI導入支援・無料相談）</a></p>

diff --git a/blog/index.html b/blog/index.html
@@ -69,6 +69,13 @@
     </nav>
     <p class="b-tabs-note" data-for="adoption" hidden>FDE型の伴走支援そのものは <a href="/fde/">/fde/</a> にまとめています。</p>
     <div class="blog-list">
+      <div class="card blog-card" data-cat="tech">
+        <span class="b-date">2026.08.26 ナレッジ</span>
+        <a href="/blog/k-multilingual-density" class="b-thumb"><img src="/assets/blog/k-multilingual-density.jpg" alt="" loading="lazy"></a>
+        <h3><a href="/blog/k-multilingual-density">飲食店の英語ページは、日本語の5倍書く——多言語サイトを「情報密度」から設計する</a></h3>
+        <p>自社が制作した飲食店サイト2店舗の実測で、英語ページの本文は日本語ページの約5倍の分量でした。訳語辞書・書いていない情報の洗い出し・書けない情報の線引き・更新の配線という、情報密度から多言語サイトを設計する手順を公開します。</p>
+        <a href="/blog/k-multilingual-density" class="b-more">読む →</a>
+      </div>
       <div class="card blog-card" data-cat="news">
         <span class="b-date">2026.08.26 朝</span>
         <a href="/blog/20260826-ai-nine-rules" class="b-thumb"><img src="/assets/blog/20260826-ai-nine-rules.jpg" alt="" loading="lazy"></a>
